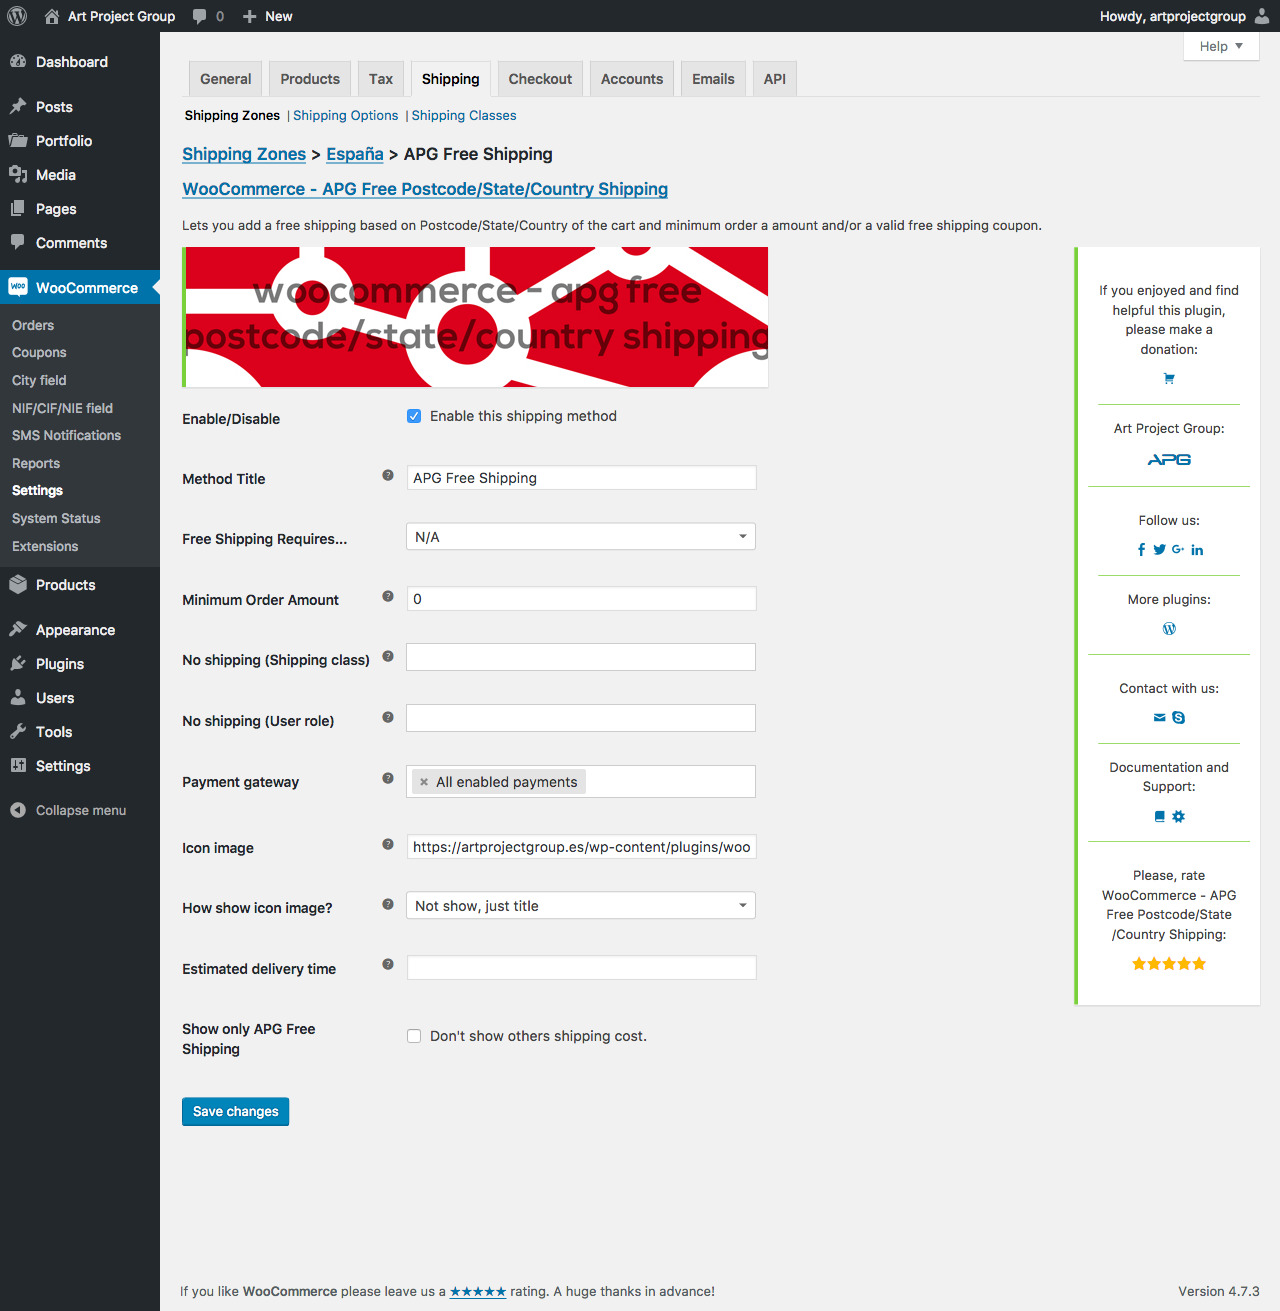
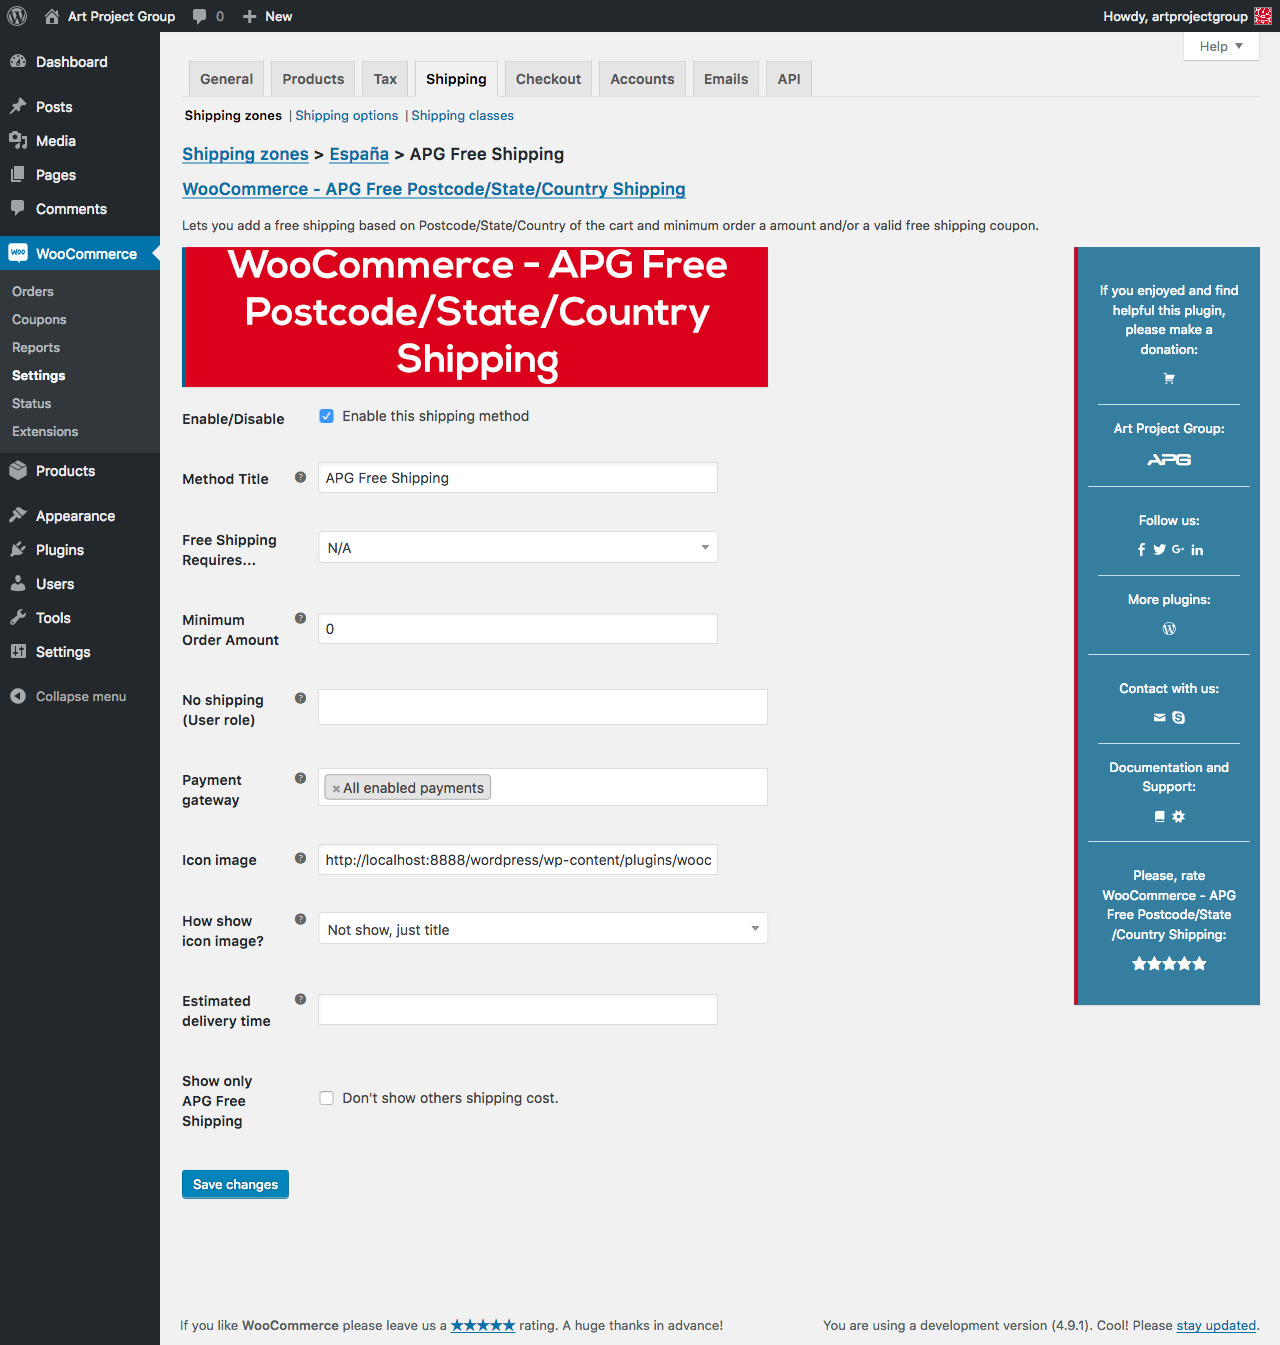
Versión 2.2.0.12

diff --git a/assets/css/style.css b/assets/css/style.css
@@ -11,12 +11,12 @@ table.apg-table, .cabecera {
 	max-width: 586px;
 }
 .imagen {
-	border-left: 4px solid #7AD03A;
+	border-left: 4px solid #07628c;
 	box-shadow: 0 1px 1px 0 rgba(0, 0, 0, 0.1);
 	max-width: 100%;
 	display: block;
 }
-.imagen:hover {
+.imagen:hover, .estrellas .star-rating .star:hover, div.informacion a:hover {
 	-ms-filter: "progid:DXImageTransform.Microsoft.Alpha(Opacity=80)";
 	filter: alpha(opacity=80);
 	-moz-opacity: 0.8;
@@ -26,26 +26,27 @@ table.apg-table, .cabecera {
 .estrellas div {
 	display: inline!important;
 }
-.estrellas div:hover {
-	color: #2ea2cc;
-}
 .estrellas .star-rating .star {
 	font-size: 18px;
 }
-div.informacion .genericon, div.informacion .estrellas .star-rating .star, div.informacion .artprojectgroup {
+div.informacion .estrellas .star-rating .star {
+	color: #fff;
+}
+.genericon, div.informacion .estrellas .star-rating .star, div.informacion .artprojectgroup {
 	width: 15px;
 	height: 15px;
 	font-size: 15px;
 }
 div.informacion {
-	background-color: #FFFFFF;
+	background-color: rgba(7,98,140,0.8);
 	float: right;
 	padding: 10px;
 	width: 15%;
 	max-width: 220px;
 	text-align: center;
-	border-left: 4px solid #7AD03A;
+	border-left: 4px solid #d9001d;
 	box-shadow: 0 1px 1px 0 rgba(0, 0, 0, 0.1);
+	color: #fff;
 }
 div.informacion div.fila {
 	padding: 10px 10px 0px;
@@ -53,7 +54,7 @@ div.informacion div.fila {
 	max-width: 190px;
 }
 div.informacion div.fila, div.informacion div.columna:nth-child(2n) {
-	border-top: 1px solid #7AD03A;
+	border-top: 1px solid #fff;
 }
 div.informacion div.fila:first-child {
 	border: none;
@@ -68,6 +69,7 @@ div.informacion div.fila.final {
 }
 div.informacion a {
 	text-decoration: none;
+	color: #fff;
 }
 table.apg-table select, table.apg-table textarea {
 	width: 100% !important;

diff --git a/apg-free-shipping.php b/apg-free-shipping.php
@@ -1,15 +1,15 @@
 <?php
 /*
 Plugin Name: WooCommerce - APG Free Postcode/State/Country Shipping
-Version: 2.2.0.11
+Version: 2.2.0.12
 Plugin URI: https://wordpress.org/plugins/woocommerce-apg-free-postcodestatecountry-shipping/
 Description: Add to WooCommerce a free shipping based on the order postcode, province (state) and country of customer's address and minimum order a amount and/or a valid free shipping coupon. Created from <a href="http://profiles.wordpress.org/artprojectgroup/" target="_blank">Art Project Group</a> <a href="http://wordpress.org/plugins/woocommerce-apg-weight-and-postcodestatecountry-shipping/" target="_blank"><strong>WooCommerce - APG Weight and Postcode/State/Country Shipping</strong></a> plugin and the original WC_Shipping_Free_Shipping class from <a href="http://wordpress.org/plugins/woocommerce/" target="_blank"><strong>WooCommerce - excelling eCommerce</strong></a>.
 Author URI: https://artprojectgroup.es/
 Author: Art Project Group
 Requires at least: 3.8
-Tested up to: 4.9
+Tested up to: 4.9.1
 WC requires at least: 2.6
-WC tested up to: 3.2
+WC tested up to: 3.3
 
 Text Domain: woocommerce-apg-free-postcodestatecountry-shipping
 Domain Path: /languages
@@ -32,7 +32,7 @@ $apg_free_shipping = array(
 	'plugin' 		=> 'WooCommerce - APG Free Postcode/State/Country Shipping', 
 	'plugin_uri' 	=> 'woocommerce-apg-free-postcodestatecountry-shipping', 
 	'donacion' 		=> 'https://artprojectgroup.es/tienda/donacion',
-	'soporte' 		=> 'https://wcprojectgroup.es/tienda/ticket-de-soporte',
+	'soporte' 		=> 'https://artprojectgroup.es/tienda/ticket-de-soporte',
 	'plugin_url' 	=> 'https://artprojectgroup.es/plugins-para-wordpress/plugins-para-woocommerce/woocommerce-apg-free-postcodestatecountry-shipping', 
 	'ajustes' 		=> 'admin.php?page=wc-settings&tab=shipping', 
 	'puntuacion' 	=> 'https://wordpress.org/support/view/plugin-reviews/woocommerce-apg-free-postcodestatecountry-shipping'

diff --git a/readme.md b/readme.md
@@ -7,13 +7,13 @@ Tags: WooCommerce, e-Commerce, Commerce, Shop, Virtual shop, Shipping, Free Ship
 
 Requires at least: 3.8
 
-Tested up to: 4.9
+Tested up to: 4.9.1
 
-Stable tag: 2.2.0.11
+Stable tag: 2.2.0.12
 
 WC requires at least: 2.6
 
-WC tested up to: 3.2
+WC tested up to: 3.3
 
 License: GPLv3
 
@@ -42,7 +42,7 @@ Añade a WooCommerce un envío gratuito basado en el código postal, provincia (
 * Português ([**Álvaro Góis dos Santos**](http://efeitoavestruz.pt/)).
 
 ### Soporte técnico
-**Art Project Group** te ofrece [**Soporte técnico**](https://wcprojectgroup.es/tienda/ticket-de-soporte) para configurar o instalar ***WooCommerce - APG Free Postcode/State/Country Shipping***.
+**Art Project Group** te ofrece [**Soporte técnico**](https://artprojectgroup.es/tienda/ticket-de-soporte) para configurar o instalar ***WooCommerce - APG Free Postcode/State/Country Shipping***.
 
 ### Origen
 **WooCommerce - APG Free Postcode/State/Country Shipping** ha sido programado a partir del plugin [*WooCommerce - APG Weight and Postcode/State/Country Shipping*](http://wordpress.org/plugins/woocommerce-apg-weight-and-postcodestatecountry-shipping/) de [Art Project Group](http://profiles.wordpress.org/artprojectgroup/) y la clase *WC_Shipping_Free_Shipping* original de [*WooCommerce - excelling eCommerce*](http://wordpress.org/plugins/woocommerce/), lo que le añade algunas de las funcionalidades presentes en el primero a la sencillez del segundo.
@@ -78,11 +78,16 @@ Puedes seguir el desarrollo de este plugin en [Github](https://github.com/artpro
 Aunque la configuración del plugin es un muy simple, hemos creado un tutorial donde explicamos paso a paso el proceso de configuración. Puedes visitarlo en [¿Cómo se configura WooCommerce – APG Free Postcode/State/Country Shipping?](https://artprojectgroup.es/como-se-configura-woocommerce-apg-free-postcodestatecountry-shipping).
 
 ### Soporte técnico
-Si necesitas ayuda para configurar o instalar **WooCommerce - APG Free Postcode/State/Country Shipping**, **Art Project Group** te ofrece su servicio de [**Soporte técnico**](https://wcprojectgroup.es/tienda/ticket-de-soporte). 
+Si necesitas ayuda para configurar o instalar **WooCommerce - APG Free Postcode/State/Country Shipping**, **Art Project Group** te ofrece su servicio de [**Soporte técnico**](https://artprojectgroup.es/tienda/ticket-de-soporte). 
 
 *En ningún caso **Art Project Group** proporciona ningún tipo de soporte técnico gratuito.*
 
 ## Changelog
+### 2.2.0.12
+* Actualización de cabecera.
+* Actualización de hoja de estilo.
+* Actualización de captura de pantalla.
+
 ### 2.2.0.11
 * Corregido problema de compatibilidad con Polylang.
 
@@ -259,7 +264,7 @@ Si necesitas ayuda para configurar o instalar **WooCommerce - APG Free Postcode/
 * *Português*: por [**Álvaro Góis dos Santos**](http://www.efeitoavestruz.pt).
 
 ## Soporte técnico
-Dado que **WooCommerce - APG Free Postcode/State/Country Shipping** es totalmente gratuito, **Art Project Group** sólo proporciona el servicio de [**Soporte técnico**](https://wcprojectgroup.es/tienda/ticket-de-soporte) previo pago. En ningún caso **Art Project Group** proporciona ningún tipo de soporte técnico gratuito.
+Dado que **WooCommerce - APG Free Postcode/State/Country Shipping** es totalmente gratuito, **Art Project Group** sólo proporciona el servicio de [**Soporte técnico**](https://artprojectgroup.es/tienda/ticket-de-soporte) previo pago. En ningún caso **Art Project Group** proporciona ningún tipo de soporte técnico gratuito.
 
 ## Donación
 ¿Te ha gustado y te ha resultado útil **WooCommerce - APG Free Postcode/State/Country Shipping** en tu sitio web? Te agradeceríamos una [pequeña donación](https://artprojectgroup.es/tienda/donacion) que nos ayudará a seguir mejorando este plugin y a crear más plugins totalmente gratuitos para toda la comunidad WordPress.
